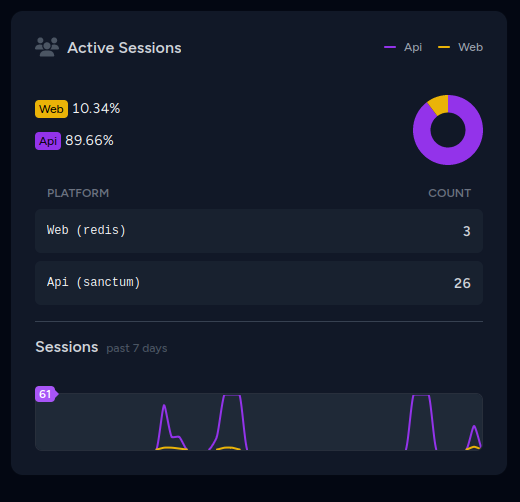
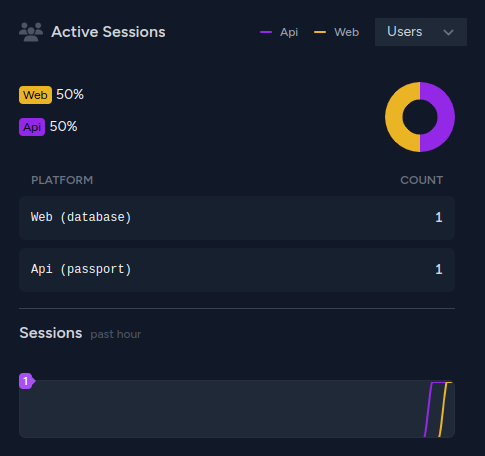
New screenshot add
Dropdown first letter show as capital

diff --git a/resources/views/livewire/pulse_active_session.blade.php b/resources/views/livewire/pulse_active_session.blade.php
@@ -20,7 +20,7 @@
                                 <select wire:change="filterByProviders(event.target.value)"
                                         class="overflow-ellipsis w-full border-0 pl-3 pr-8 py-1 bg-gray-50 dark:bg-gray-800 text-gray-700 dark:text-gray-300 text-xs sm:text-sm shadow-none focus:ring-0">
                                     @foreach ($filters as $filter)
-                                        <option value="{{ $filter }}">{{ $filter }}</option>
+                                        <option value="{{ $filter }}">{{ ucfirst($filter) }}</option>
                                     @endforeach
                                 </select>
                             @endif
